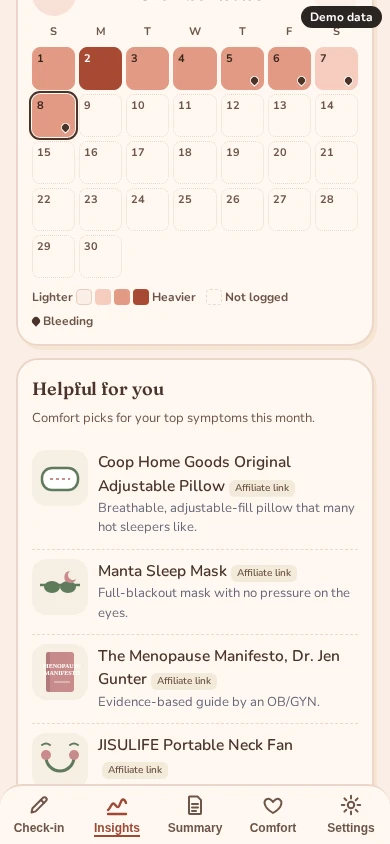
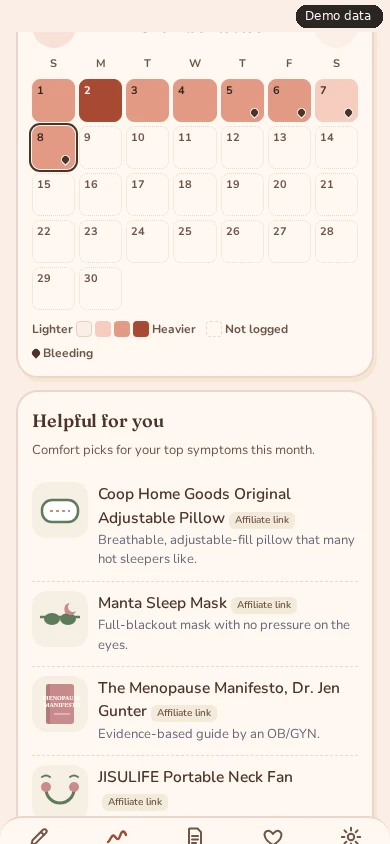
Stack mobile check-in header and keep demo labels clear of content

diff --git a/index.html b/index.html
@@ -36,10 +36,10 @@ section{padding:56px 0}section.alt{background:var(--card);border-block:1px solid
 .accent{font-family:Nunito,Arial,sans-serif;font-style:italic;color:var(--terra);font-size:clamp(13px,4.2vw,18px);line-height:1.25;margin:0 0 8px;display:block}
 .hero{display:grid;gap:36px;align-items:center;padding:24px 0 48px}
 @media(min-width:860px){.hero{grid-template-columns:1.1fr .9fr}.cols{display:grid;grid-template-columns:1fr 1fr;gap:48px;align-items:center}.three{display:grid;grid-template-columns:repeat(3,1fr);gap:24px}}
-.phone{margin:0 auto;max-width:300px;position:relative}
+.phone{margin:36px auto 0;max-width:300px;position:relative}
 .phone img{width:100%;height:auto;display:block;border-radius:28px;border:8px solid #2b2523;box-shadow:0 18px 40px rgba(60,40,30,.18);background:#fff}
 .phone.flat img{border-radius:16px;border-width:1px;border-color:var(--line)}
-.demo{position:absolute;top:14px;right:-6px;background:#2b2523;color:#fff;font-size:13px;font-weight:800;letter-spacing:.04em;padding:4px 10px;border-radius:999px}
+.demo{position:absolute;top:-32px;right:0;background:#2b2523;color:#fff;font-size:13px;font-weight:800;letter-spacing:.04em;padding:4px 10px;border-radius:999px}
 figcaption{font-size:15px;color:var(--mute);text-align:center;margin-top:10px}
 .prob{list-style:none;padding:0;margin:0;display:grid;gap:14px}.prob li{background:var(--card);border:1px solid var(--line);border-radius:18px;padding:16px 18px}
 .step{background:var(--card);border:1px solid var(--line);border-radius:22px;padding:20px;margin-bottom:20px}.step b.n{display:inline-grid;place-items:center;width:34px;height:34px;border-radius:50%;background:var(--rose);color:var(--terraD);margin-right:8px}

diff --git a/sw.js b/sw.js
@@ -1,9 +1,9 @@
-// Root service worker, retired in peri-v33 (Nov 2026). The app moved to /app/ (its own SW, scope /app/).
+// Root service worker, retired in peri-v34 (Nov 2026). The app moved to /app/ (its own SW, scope /app/).
 // Older installs registered this file with scope "/" and would keep serving the old app over the landing page.
 // This version: takes over at once, deletes old root app caches, unregisters itself, and reloads open windows
 // so they get the network copy (landing page, which sends home-screen launches on to /app/).
 // It never touches localStorage, so her entries (key periTracker.v1, same origin) are untouched.
-const KEEP=['peri-v33'];// the /app/ SW's cache; nights-*/strong-* are not peri-* so untouched
+const KEEP=['peri-v34'];// the /app/ SW's cache; nights-*/strong-* are not peri-* so untouched
 self.addEventListener('install',()=>self.skipWaiting());
 self.addEventListener('activate',e=>{e.waitUntil((async()=>{
  const k=await caches.keys();await Promise.all(k.filter(x=>x.startsWith('peri-')&&!KEEP.includes(x)).map(x=>caches.delete(x)));

diff --git a/app/sw.js b/app/sw.js
@@ -1,4 +1,4 @@
-const C='peri-v33',A=['./','index.html','manifest.webmanifest','icon-192.png','icon-512.png','icon-512-maskable.png','icon-180.png','../privacy.html','../health-data.html','../terms.html','../accessibility.html','fonts/fraunces-latin.woff2','fonts/nunito-latin.woff2'];
+const C='peri-v34',A=['./','index.html','manifest.webmanifest','icon-192.png','icon-512.png','icon-512-maskable.png','icon-180.png','../privacy.html','../health-data.html','../terms.html','../accessibility.html','fonts/fraunces-latin.woff2','fonts/nunito-latin.woff2'];
 self.addEventListener('install',e=>{e.waitUntil(caches.open(C).then(c=>c.addAll(A)))});
 self.addEventListener('message',e=>{if(e.data&&e.data.type==='SKIP_WAITING')self.skipWaiting()});
 self.addEventListener('activate',e=>{e.waitUntil(caches.keys().then(k=>Promise.all(k.filter(x=>x.startsWith('peri-')&&x!==C).map(x=>caches.delete(x)))));self.clients.claim()});

diff --git a/app/index.html b/app/index.html
@@ -316,6 +316,10 @@ nav button.on span{text-decoration:underline;text-underline-offset:3px;text-deco
 html[data-theme=dark] .emptyc .dots i.f{background:#d98a73;border-color:#f4b49b}
 </style>
 
+<style>
+/* Give the check-in title and streak their own rows on phones. */
+@media(max-width:480px){#v-today>.top{flex-direction:column;align-items:flex-start;gap:4px;margin-bottom:14px}#v-today>.top h1{font-size:clamp(22px,6vw,28px);line-height:1.2;margin:0}#v-today #streakTop{font-size:15px;line-height:1.25;white-space:nowrap}}
+</style>
 </head>
 <body>
 <div id="toast" class="saved"></div>

diff --git a/tests/today_header_test.py b/tests/today_header_test.py
@@ -1,0 +1,18 @@
+from pathlib import Path
+from playwright.sync_api import sync_playwright
+import subprocess,sys,time
+root=Path(__file__).resolve().parents[1]
+srv=subprocess.Popen([sys.executable,'-m','http.server','8845'],cwd=root,stdout=subprocess.DEVNULL,stderr=subprocess.DEVNULL);time.sleep(.6)
+try:
+ with sync_playwright() as p:
+  b=p.chromium.launch()
+  for w in [320,360,390,412,430]:
+   pg=b.new_page(viewport={'width':w,'height':915})
+   pg.goto('http://localhost:8845/app/');pg.evaluate("S.onb=true;S.instSeen=true;S.lang='en';persist()");pg.reload();pg.evaluate("show('today');$('streakTop').textContent='15 days in a row'")
+   assert pg.locator('#v-today .top h1').evaluate('e=>e.getBoundingClientRect().height<=parseFloat(getComputedStyle(e).lineHeight)+1'),f'title wraps at {w}'
+   assert pg.locator('#streakTop').evaluate('e=>e.getBoundingClientRect().height<=parseFloat(getComputedStyle(e).lineHeight)+1'),f'streak wraps at {w}'
+   assert pg.evaluate("$('streakTop').getBoundingClientRect().top >= document.querySelector('#v-today .top h1').getBoundingClientRect().bottom"),f'not stacked at {w}'
+   pg.close()
+  b.close()
+finally:srv.terminate();srv.wait()
+print('PASS Today header stacked without wrapping at 320–430px')
